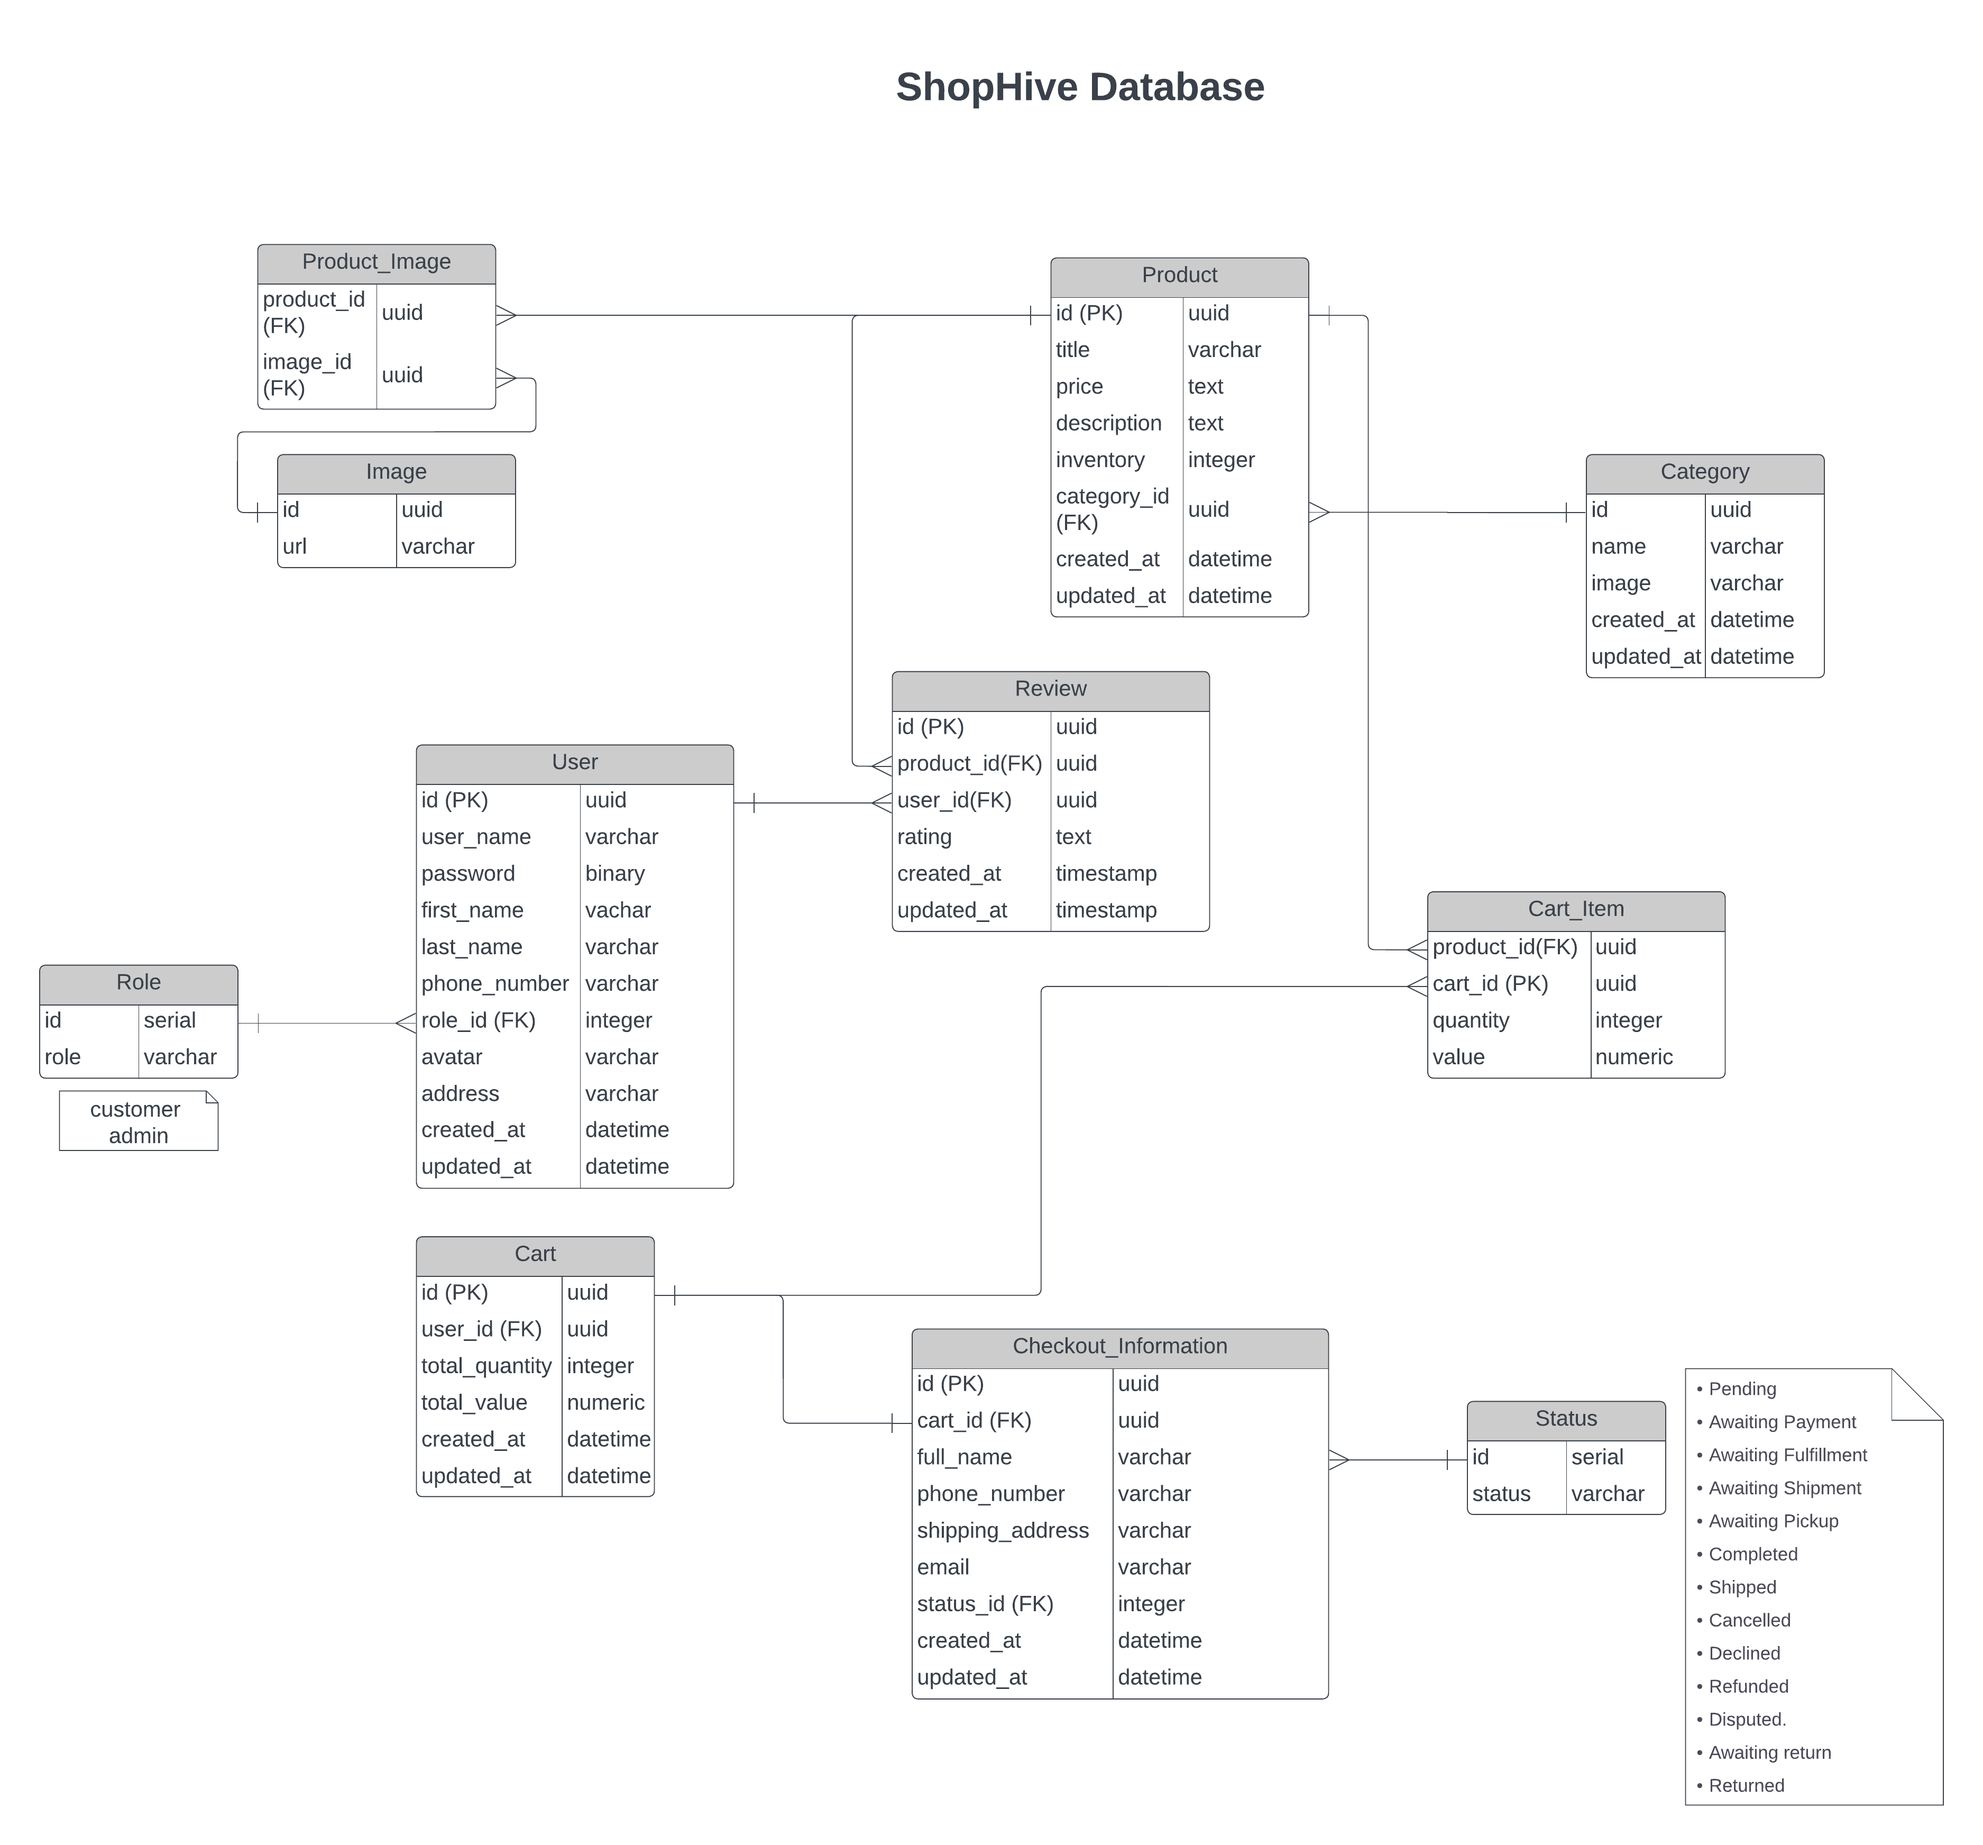
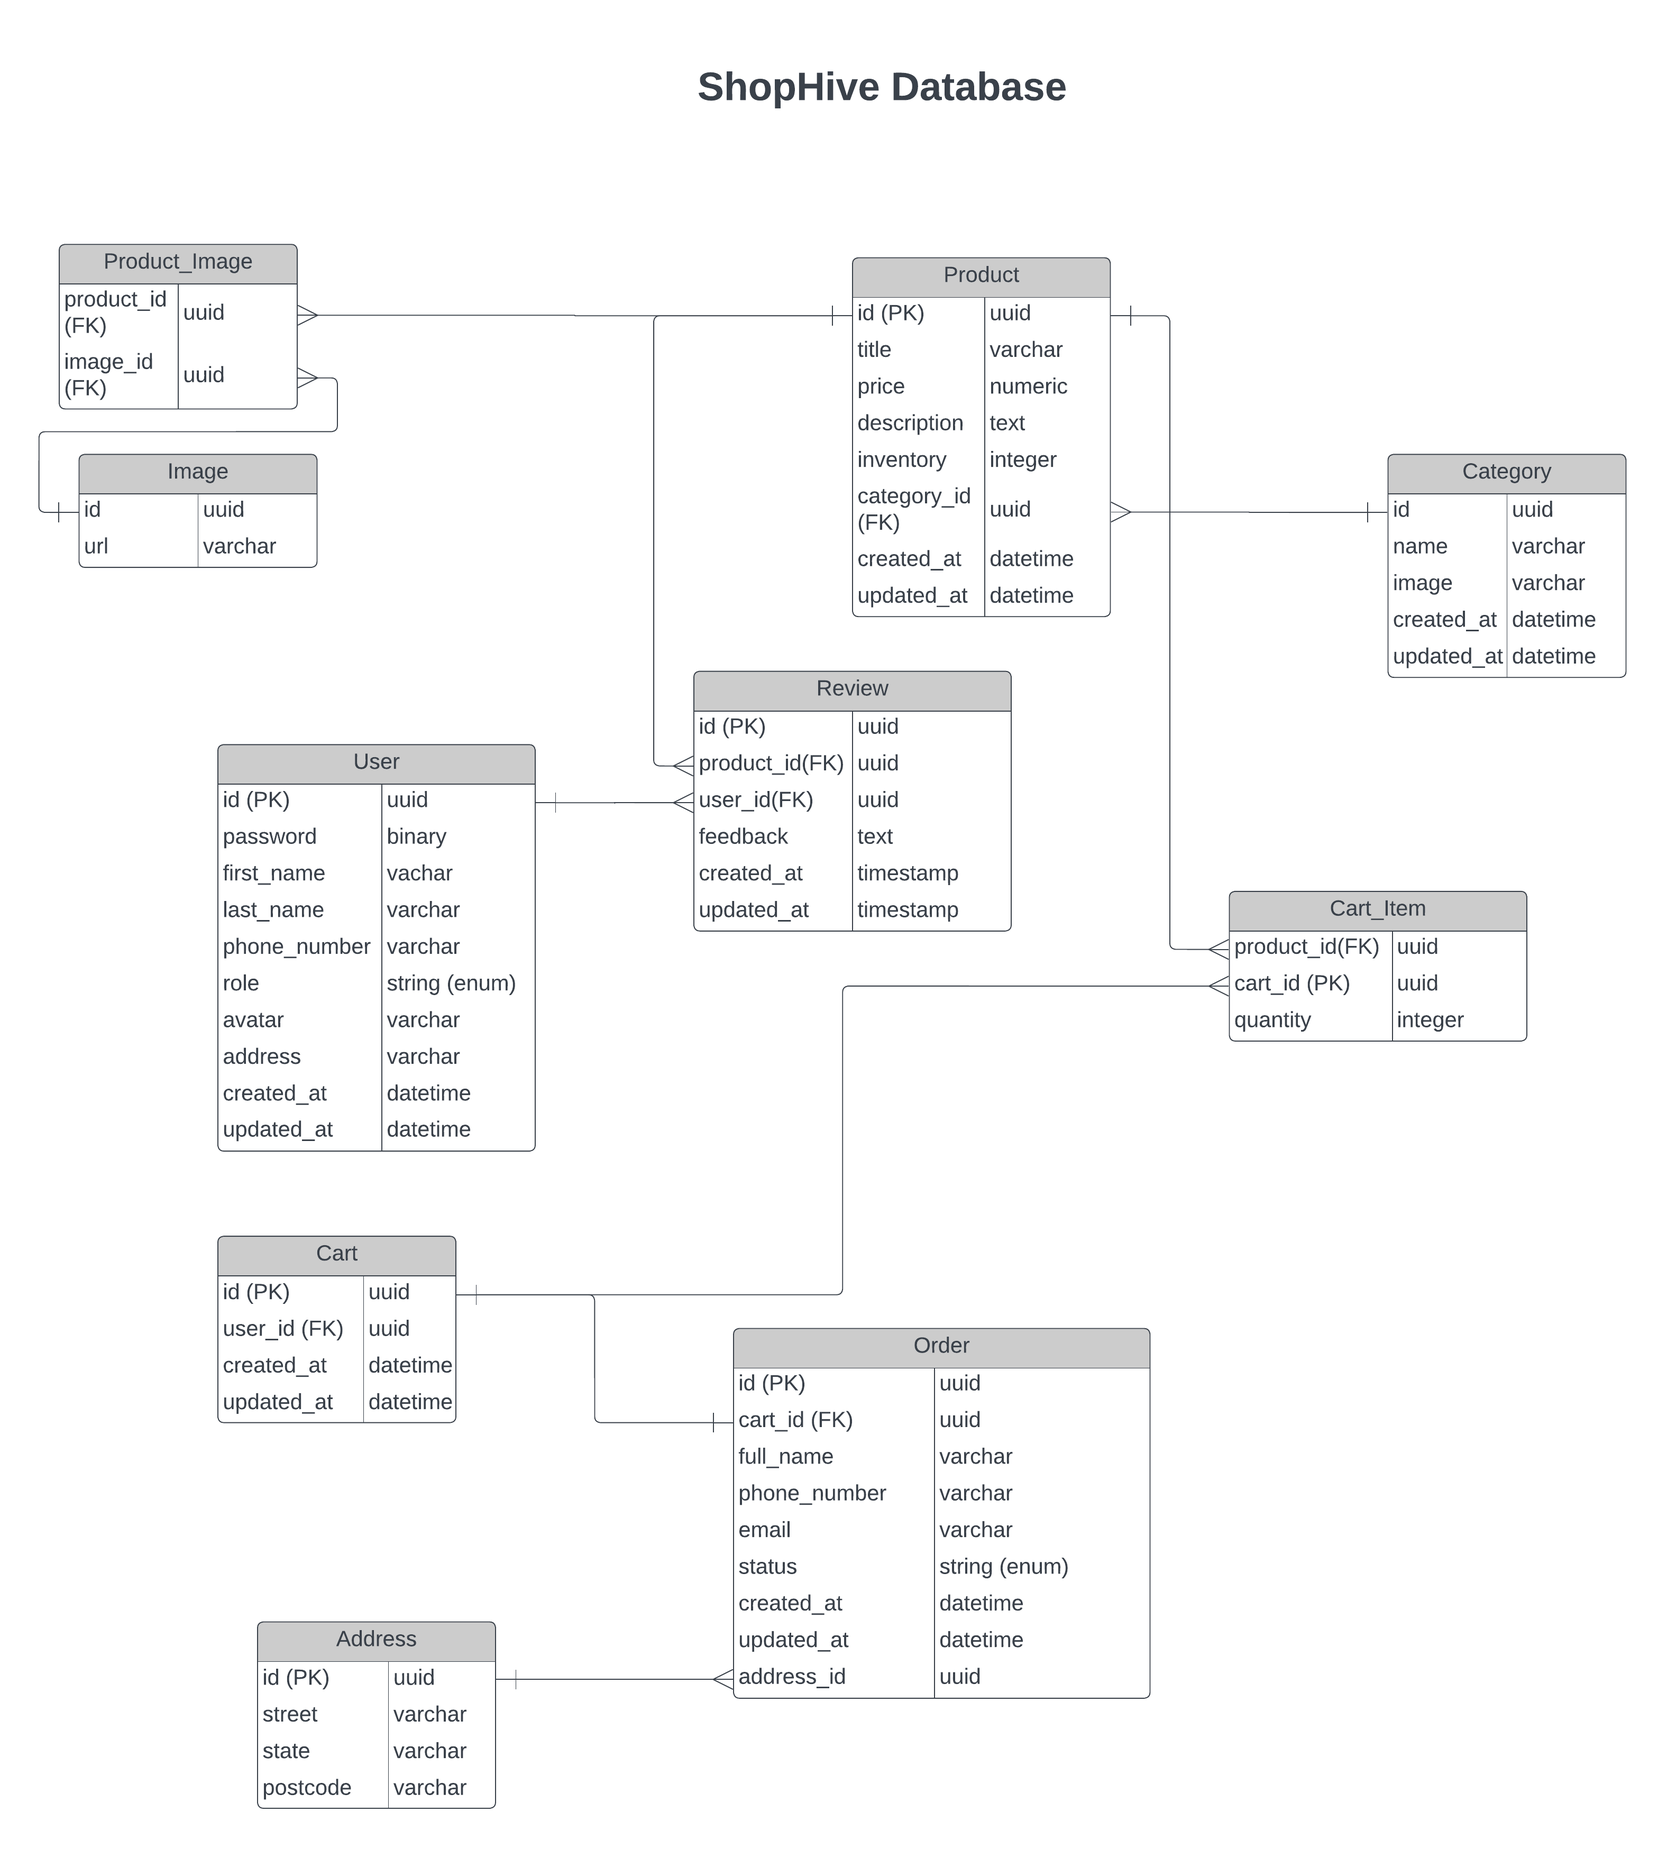
Added Entity, Updated ERD

diff --git a/backend/src/Controllers/Domain/Entities/Order.cs b/backend/src/Controllers/Domain/Entities/Order.cs
@@ -1,0 +1,20 @@
+using System;
+using System.Collections.Generic;
+using System.ComponentModel.DataAnnotations.Schema;
+using System.Linq;
+using System.Threading.Tasks;
+
+namespace backend.src.Controllers.Domain.Entities
+{
+    public class Order : BaseEntity
+    {
+        [ForeignKey(nameof(Cart))]
+        public Guid CartId { get; set; }
+        public string Recipient { get; set; }
+        public string PhoneNumber { get; set; }
+        public string Email { get; set; }
+        [ForeignKey(nameof(Address))]
+        public Guid AddressId { get; set; }
+        public OrderStatus Status { get; set; }
+    }
+}

diff --git a/backend/src/Controllers/Domain/Entities/CartProduct.cs b/backend/src/Controllers/Domain/Entities/CartProduct.cs
@@ -1,0 +1,19 @@
+using System;
+using System.Collections.Generic;
+using System.ComponentModel.DataAnnotations.Schema;
+using System.Linq;
+using System.Threading.Tasks;
+using Microsoft.EntityFrameworkCore;
+
+namespace backend.src.Controllers.Domain.Entities
+{
+    [PrimaryKey(nameof(ProductId), nameof(CartId))]
+    public class CartProduct
+    {
+        [ForeignKey(nameof(Product))]
+        public Guid ProductId { get; set; }
+        [ForeignKey(nameof(Cart))]
+        public Guid CartId { get; set; }
+        public int Quantity { get; set; }
+    }
+}

diff --git a/backend/src/Controllers/Domain/Entities/Product.cs b/backend/src/Controllers/Domain/Entities/Product.cs
@@ -1,0 +1,18 @@
+using System;
+using System.Collections.Generic;
+using System.ComponentModel.DataAnnotations.Schema;
+using System.Linq;
+using System.Threading.Tasks;
+
+namespace backend.src.Controllers.Domain.Entities
+{
+    public class Product : BaseEntity
+    {
+        public string Title { get; set; }
+        public float Price { get; set; }
+        public string Description { get; set; }
+        [ForeignKey(nameof(Category))]
+        public Guid CategoryId { get; set; }
+        public int Inventory {get; set; }
+    }
+}

diff --git a/backend/src/Controllers/Domain/Entities/User.cs b/backend/src/Controllers/Domain/Entities/User.cs
@@ -1,0 +1,14 @@
+namespace backend.src.Controllers.Domain.Entities
+{
+    public class User : BaseEntity
+    {
+         public string FirstName { get; set; }
+         public string LastName { get; set;}
+         public string Email { get; set; }
+         public string PhoneNumber { get; set; }
+         public string Avatar { get; set; }
+         public UserRole Role { get; set; }
+         public string Address { get; set; }
+         public byte[] Password { get; set; }
+    }
+}

diff --git a/backend/src/Controllers/Domain/Entities/ProductImage.cs b/backend/src/Controllers/Domain/Entities/ProductImage.cs
@@ -1,0 +1,15 @@
+using System.ComponentModel.DataAnnotations.Schema;
+using backend.src.Controllers.Domain.Entities;
+using Microsoft.EntityFrameworkCore;
+
+namespace backend.src.Controllers
+{
+    [PrimaryKey(nameof(ProductId), nameof(ImageId))]
+    public class ProductImage
+    {
+        [ForeignKey(nameof(Product))]
+        public Guid ProductId { get; set; }
+        [ForeignKey(nameof(Image))]
+        public Guid ImageId { get; set; }
+    }
+}

diff --git a/backend/src/Controllers/Domain/Entities/Address.cs b/backend/src/Controllers/Domain/Entities/Address.cs
@@ -1,0 +1,16 @@
+using System;
+using System.Collections.Generic;
+using System.ComponentModel.DataAnnotations;
+using System.Linq;
+using System.Threading.Tasks;
+
+namespace backend.src.Controllers.Domain.Entities
+{
+    public class Address : BaseEntity
+    {
+        public string Street { get; set; }
+        public string State { get; set; }
+        [MinLength(6), MaxLength(6)]
+        public string PostCode { get; set; }
+    }
+}

diff --git a/backend/src/Controllers/ProductsController.cs b/backend/src/Controllers/ProductsController.cs
@@ -1,0 +1,18 @@
+using Microsoft.AspNetCore.Mvc;
+
+namespace backend.src.Controllers
+{
+    [ApiController]
+    [Route("api/v1/[controller]")]
+    public class ProductsController : ControllerBase
+    {
+        [HttpGet]
+        public IEnumerable<string> GetAllProducts() {
+            return new[] { "" };
+        }
+        [HttpGet("{id:Guid}")]
+        public string GetProductById() {
+            return "";
+        }
+    }
+}

diff --git a/backend/src/Controllers/Domain/Entities/Review.cs b/backend/src/Controllers/Domain/Entities/Review.cs
@@ -1,0 +1,14 @@
+using System.ComponentModel.DataAnnotations.Schema;
+
+namespace backend.src.Controllers.Domain.Entities
+{
+    public class Review : BaseEntity
+    {
+        [ForeignKey(nameof(Product))]
+        public Guid ProductId { get; set; }
+        [ForeignKey(nameof(User))]
+        public Guid UserId { get; set; }
+        public string Feedback { get; set; }
+
+    }
+}

diff --git a/backend/src/Controllers/Domain/Entities/OrderStatus.cs b/backend/src/Controllers/Domain/Entities/OrderStatus.cs
@@ -1,0 +1,18 @@
+namespace backend.src.Controllers.Domain.Entities
+{
+    public enum OrderStatus
+    {
+        Pending, 
+        AwaitingPayment, 
+        AwaitingFulfillment,
+        AwaitingShipment,
+        AwaitingPickup, 
+        AwaitingReturn,
+        Shipped, 
+        Cancelled, 
+        Declined, 
+        Refunded,
+        Returned,
+        Completed 
+    }
+}

diff --git a/backend/src/Controllers/Domain/Entities/BaseEntity.cs b/backend/src/Controllers/Domain/Entities/BaseEntity.cs
@@ -1,0 +1,17 @@
+using System;
+using System.Collections.Generic;
+using System.Linq;
+using System.Threading.Tasks;
+
+namespace backend.src.Controllers.Domain.Entities
+{
+    public abstract class BaseEntity
+    {
+        private Guid _id;
+
+        public Guid Id {
+            get { return _id; }
+            set {_id = value; }
+        }
+    }
+}

diff --git a/backend/src/Controllers/Domain/Entities/Cart.cs b/backend/src/Controllers/Domain/Entities/Cart.cs
@@ -1,0 +1,11 @@
+using System.ComponentModel.DataAnnotations.Schema;
+
+namespace backend.src.Controllers.Domain.Entities
+{
+    public class Cart : BaseEntity
+    {
+        [ForeignKey(nameof(User))]
+        public Guid UserId { get; set; }
+        public List<CartProduct> CartProducts { get; set; }
+    }
+}

diff --git a/backend/src/Controllers/Domain/Entities/TimeStamp.cs b/backend/src/Controllers/Domain/Entities/TimeStamp.cs
@@ -1,0 +1,13 @@
+using System;
+using System.Collections.Generic;
+using System.Linq;
+using System.Threading.Tasks;
+
+namespace backend.src.Controllers.Domain.Entities
+{
+    public class TimeStamp
+    {
+        public DateOnly CreatedAt { get; set; }
+        public DateOnly UpdatedAt { get; set; }
+    }
+}
